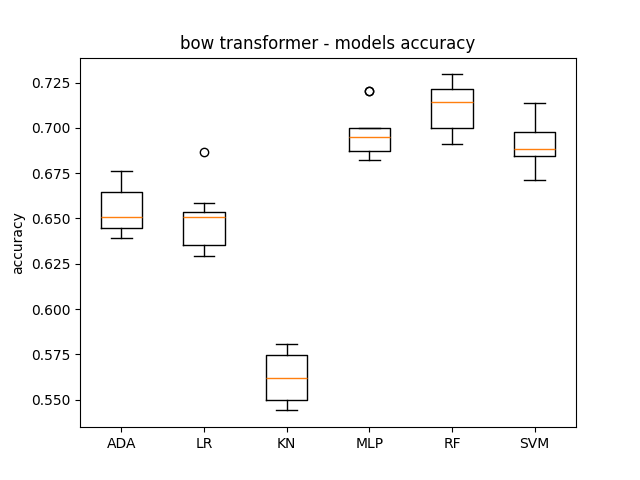
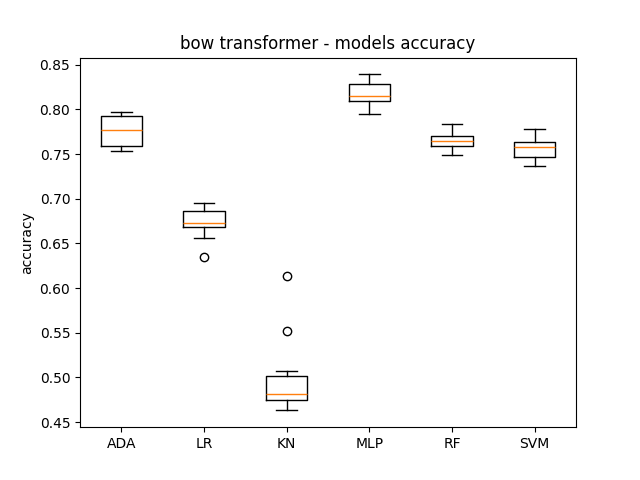
Removing the idea of stopwords - found out, that MLP is the best now

diff --git a/sentiment_analysis_bow.py b/sentiment_analysis_bow.py
@@ -8,26 +8,6 @@ import utils
 
 WORDNET_LEMMATIZER = nltk.stem.WordNetLemmatizer()
 
-CUSTOM_STOPWORDS = {
-    "thesocialdilemma",
-    "movie",
-    "movies",
-    "film",
-    "films",
-    "netflix",
-    "twitter",
-    "tweet",
-    "tweets",
-    "retweet",
-    "retweets",
-}
-
-
-def get_stopwords() -> Set[str]:
-    # from http://www.lextek.com/manuals/onix/stopwords1.html
-    stopwords = set(w.strip() for w in open("./data/stopwords.txt"))
-    return stopwords.union(CUSTOM_STOPWORDS)
-
 
 # custom tokenizer instead of nltk.tokenize.word_tokenize()
 def tweet_text_tokenize(tweet_text: str) -> List[str]:
@@ -37,7 +17,7 @@ def tweet_text_tokenize(tweet_text: str) -> List[str]:
     ]
 
 
-def tokenize_tweet(tweet_text: str, stopwords: Set[str]):
+def tokenize_tweet(tweet_text: str) -> List[str]:
     tweet_text = tweet_text.lower()
     tokens = tweet_text_tokenize(tweet_text)
     tokens = [
@@ -46,7 +26,6 @@ def tokenize_tweet(tweet_text: str, stopwords: Set[str]):
         if len(t) > 2 and not any([c in t for c in ["@", "…", "https"]])
     ]
     tokens = [WORDNET_LEMMATIZER.lemmatize(t) for t in tokens]
-    tokens = [t for t in tokens if t not in stopwords]
     return tokens
 
 
@@ -54,11 +33,10 @@ def update_word_index_map_with_tokenized_tweets(
     word_index_map: Dict[str, int],
     tweets: List[str],
     current_index: int,
-    stopwords: Set[str],
 ) -> Tuple[Dict[str, int], List[List[str]], int]:
     tokenized_tweets = []
     for tweet in tweets:
-        tokens = tokenize_tweet(tweet, stopwords)
+        tokens = tokenize_tweet(tweet)
         tokenized_tweets.append(tokens)
         for token in tokens:
             if token not in word_index_map:
@@ -97,8 +75,6 @@ def create_data_matrix_from_tweets(
 def get_data_matrix(
     csv_file_path: Path, examples_number_for_validation: Optional[int] = None
 ) -> np.ndarray:
-    stopwords = get_stopwords()
-
     if examples_number_for_validation:
         positive_data, neutral_data, negative_data = utils.get_csv_data(
             csv_file_path, examples_number_for_validation
@@ -120,7 +96,6 @@ def get_data_matrix(
         word_index_map,
         positive_tweets,
         current_index,
-        stopwords,
     )
     (
         word_index_map,
@@ -130,7 +105,6 @@ def get_data_matrix(
         word_index_map,
         neutral_tweets,
         current_index,
-        stopwords,
     )
     (
         word_index_map,
@@ -140,7 +114,6 @@ def get_data_matrix(
         word_index_map,
         negative_tweets,
         current_index,
-        stopwords,
     )
 
     data_matrix_positives = create_data_matrix_from_tweets(

diff --git a/sentiment_analysis_st.py b/sentiment_analysis_st.py
@@ -7,6 +7,9 @@ from sentence_transformers import SentenceTransformer
 import utils
 
 
+ST_MODEL = SentenceTransformer("all-mpnet-base-v2")
+
+
 def get_tokenized_tweets(tweets: List[str]) -> List[str]:
     tokenized_tweets = []
     for tweet in tweets:
@@ -17,23 +20,23 @@ def get_tokenized_tweets(tweets: List[str]) -> List[str]:
 
 
 def create_data_matrix_from_tweets(
-    positives_tokenized, neutrals_tokenized, negatives_tokenized
-):
-    st_model = SentenceTransformer("all-mpnet-base-v2")
-
-    data_matrix_positives = st_model.encode(positives_tokenized)
+    positives_tokenized: List[str],
+    neutrals_tokenized: List[str],
+    negatives_tokenized: List[str],
+) -> np.ndarray:
+    data_matrix_positives = ST_MODEL.encode(positives_tokenized)
     V = data_matrix_positives.shape[0]
     data_matrix_positives = np.concatenate(
         (data_matrix_positives, 3 * np.ones((V, 1))), axis=1
     )
 
-    data_matrix_neutrals = st_model.encode(neutrals_tokenized)
+    data_matrix_neutrals = ST_MODEL.encode(neutrals_tokenized)
     V = data_matrix_neutrals.shape[0]
     data_matrix_neutrals = np.concatenate(
         (data_matrix_neutrals, 2 * np.ones((V, 1))), axis=1
     )
 
-    data_matrix_negatives = st_model.encode(negatives_tokenized)
+    data_matrix_negatives = ST_MODEL.encode(negatives_tokenized)
     V = data_matrix_negatives.shape[0]
     data_matrix_negatives = np.concatenate(
         (data_matrix_negatives, np.ones((V, 1))), axis=1

diff --git a/test_sentiment_analysis.py b/test_sentiment_analysis.py
@@ -41,7 +41,7 @@ def sentiment_analysis_test(
         X, Y, test_size=0.2, random_state=42
     )
 
-    print(f"Test of model: {model_name}")
+    print(f"Test of model: {model_name} with {transformer_type} transformer")
     model = utils.MODELS[model_name]
     model.fit(Xtrain, Ytrain)
     Ypred = model.predict(Xtest)
@@ -66,5 +66,5 @@ if __name__ == "__main__":
     sentiment_analysis_validaton(
         csv_file_path, examples_number_for_validation, n_repeats, K, "st"
     )
-    # Random Forest algorithm with Bag Of Words transformer had the best results 
-    sentiment_analysis_test(csv_file_path, "RF", "bow")
+    # Multi Layer Perceptron algorithm with Bag Of Words transformer had the best results in validation 
+    sentiment_analysis_test(csv_file_path, "MLP", "bow")

diff --git a/utils.py b/utils.py
@@ -17,7 +17,7 @@ MODELS = {
     "ADA": AdaBoostClassifier(),
     "LR": LogisticRegression(),
     "KN": KNeighborsClassifier(),
-    "MLP": MLPClassifier(),
+    "MLP": MLPClassifier(max_iter=500),
     "RF": RandomForestClassifier(),
     "SVM": SVC(decision_function_shape="ovo"),
 }
